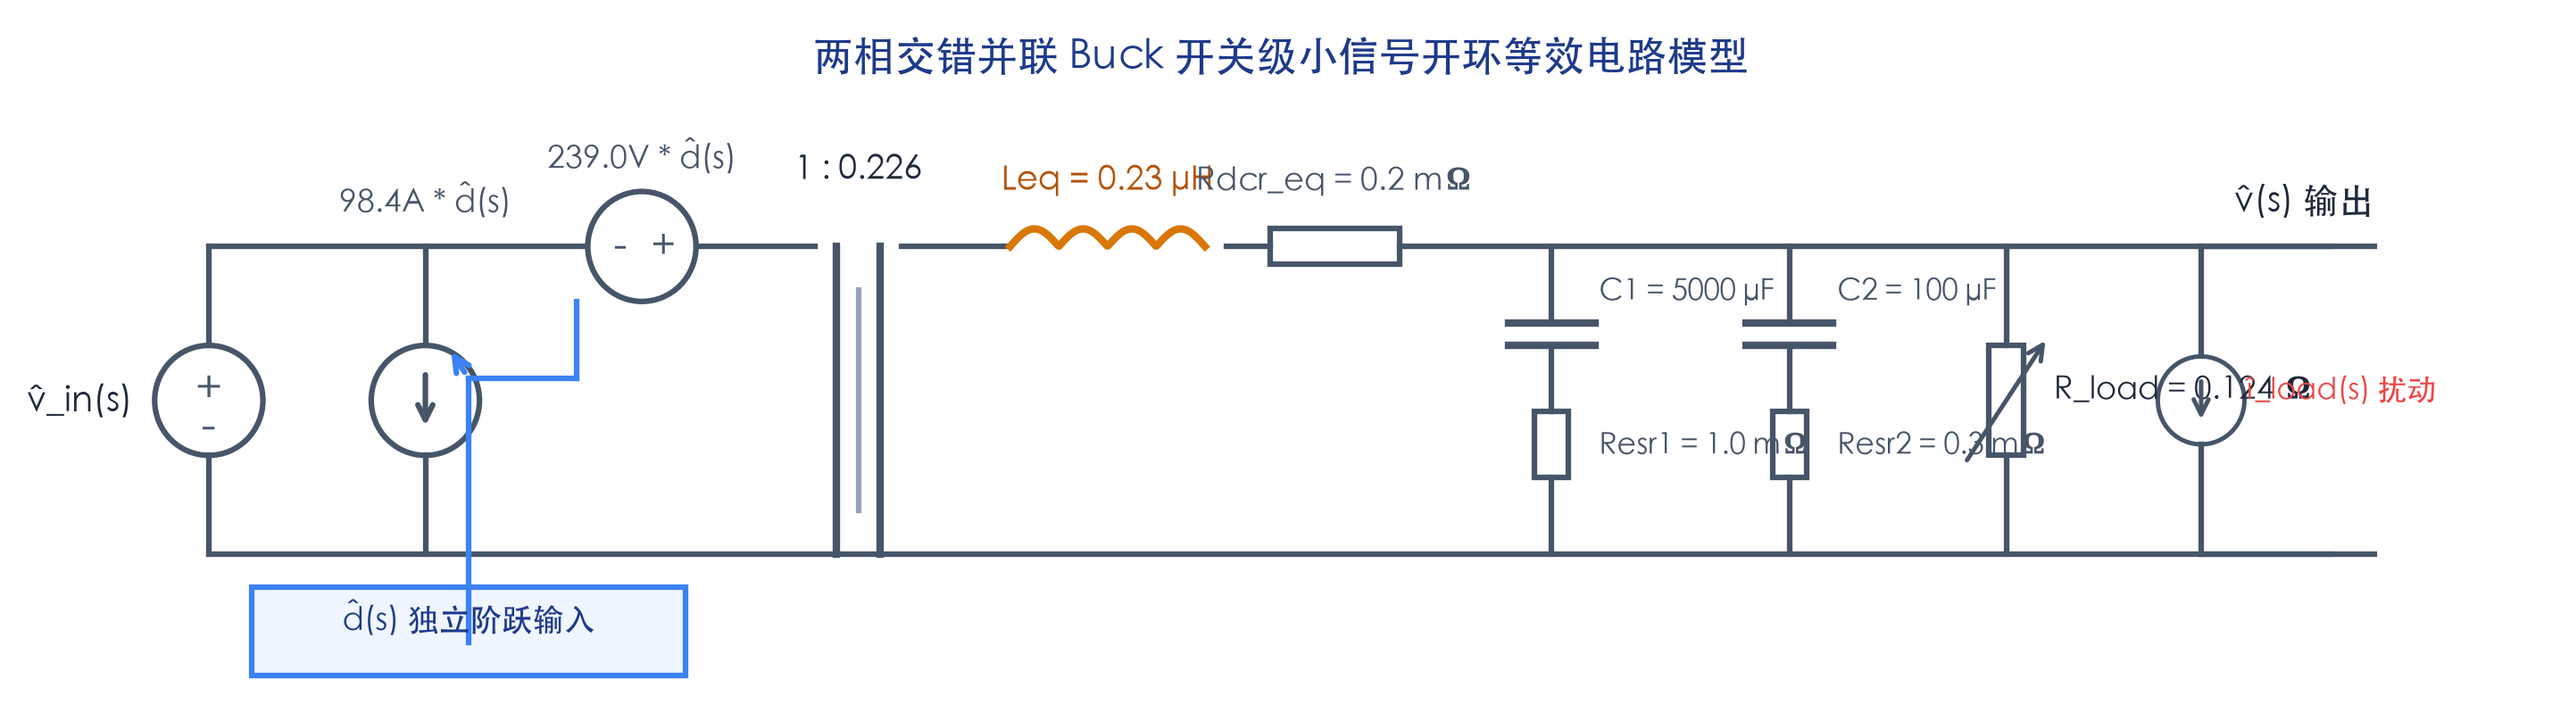
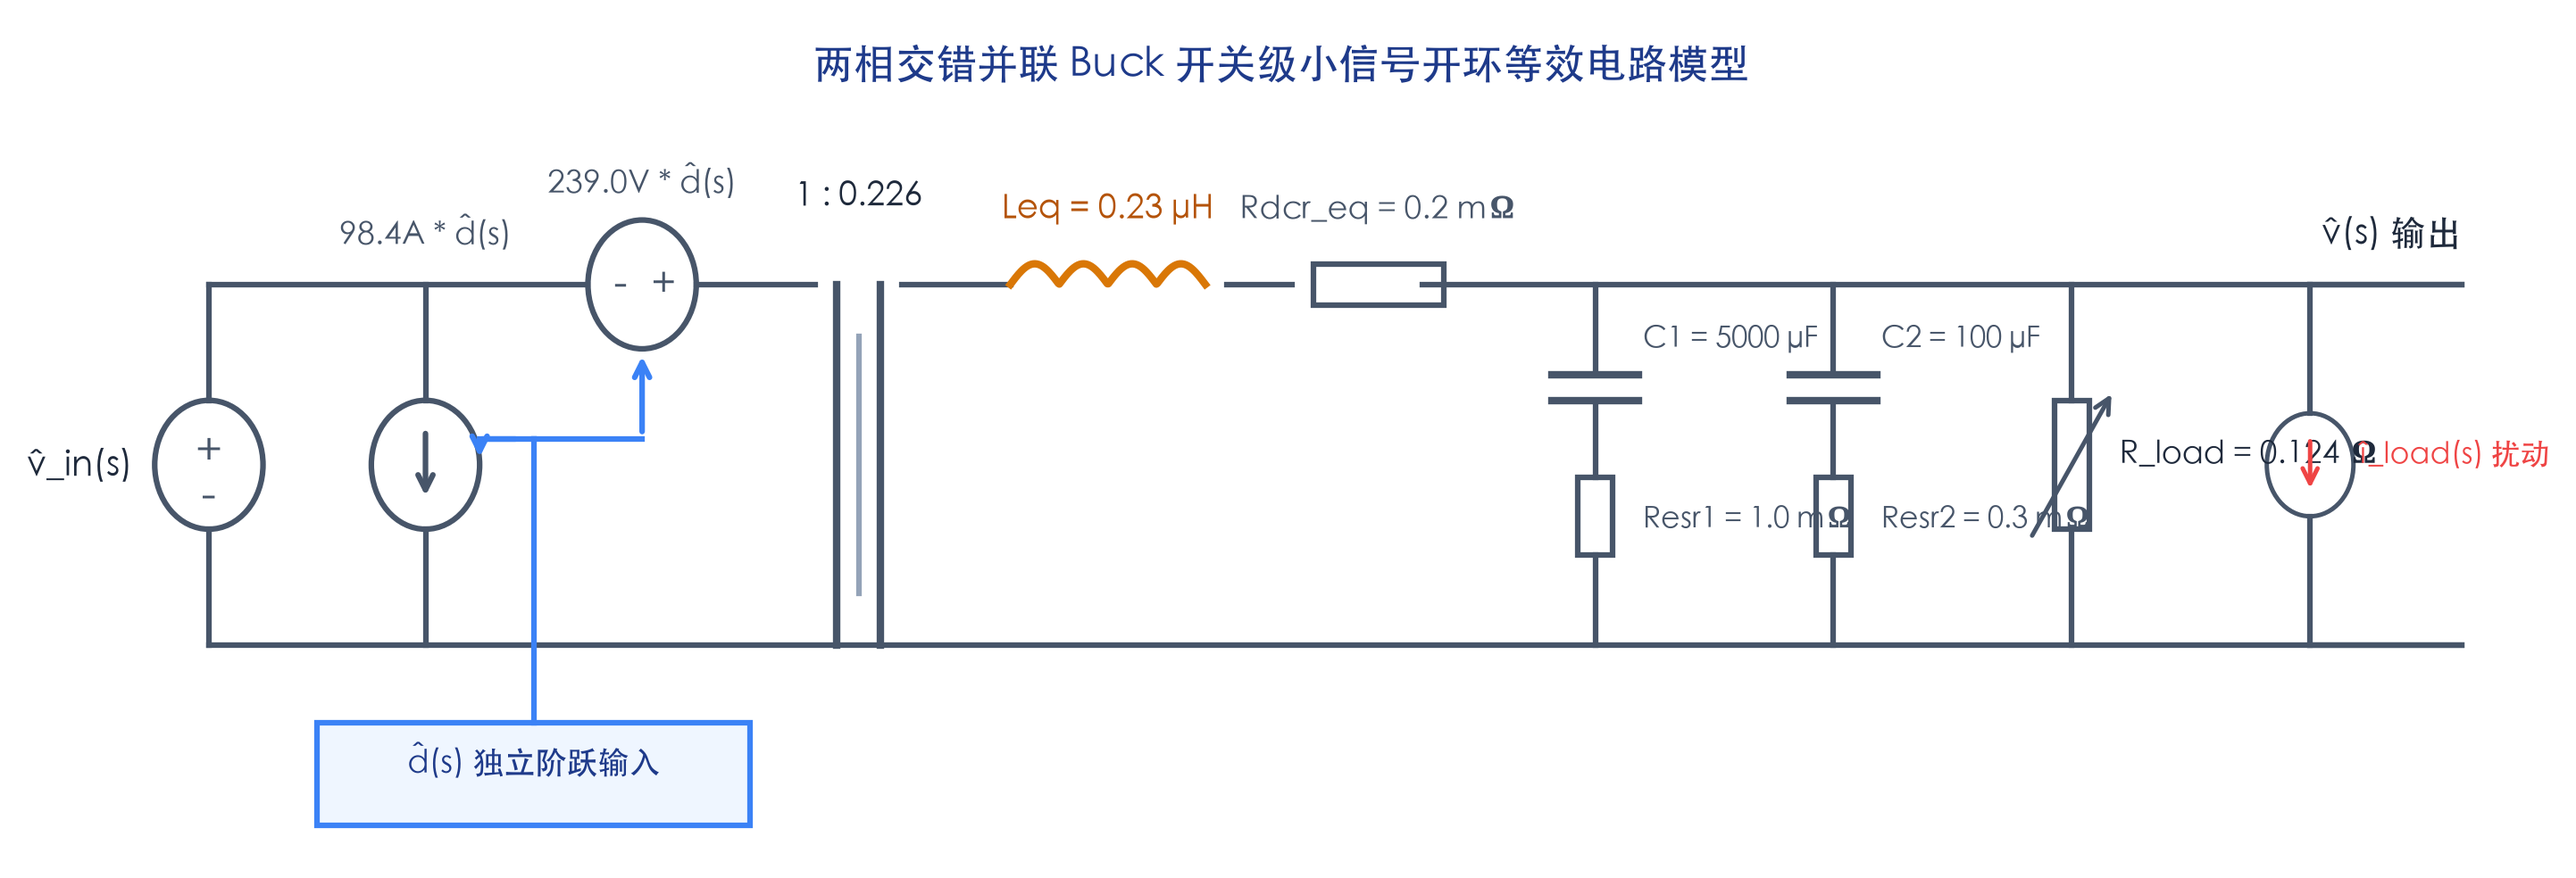
Widen open-loop schematic layout to resolve label overlaps and update st.image parameter in app.py

Changed region(s): [[0.0, 0.1802, 0.9962, 0.781], [0.3113, 0.03, 0.6849, 0.1202], [0.0934, 0.811, 0.3113, 0.9612]]

diff --git a/DesignDoc/generate_open_loop_schematic.py b/DesignDoc/generate_open_loop_schematic.py
@@ -7,10 +7,10 @@ def draw_open_loop_schematic():
     plt.rcParams['font.sans-serif'] = ['STHeiti', 'PingFang SC', 'Heiti TC', 'Arial Unicode MS', 'sans-serif']
     plt.rcParams['axes.unicode_minus'] = False
     
-    # Canvas size matching the closed-loop one
-    fig, ax = plt.subplots(figsize=(12, 3.2))
+    # Canvas size matching the closed-loop one, using 12x4 for spacious layout
+    fig, ax = plt.subplots(figsize=(12, 4.0))
     ax.set_xlim(0, 11.5)
-    ax.set_ylim(1.2, 4.2)
+    ax.set_ylim(1.0, 4.2)
     ax.axis('off')
     
     # Title
@@ -23,13 +23,13 @@ def draw_open_loop_schematic():
     y_bot = 1.8
     
     # Bottom rail (Ground)
-    plt.plot([0.8, 10.6], [y_bot, y_bot], color='#475569', lw=1.5)
+    plt.plot([0.8, 11.2], [y_bot, y_bot], color='#475569', lw=1.5)
     # Top rail sections
     plt.plot([0.8, 2.55], [y_top, y_top], color='#475569', lw=1.5)
     plt.plot([3.05, 3.6], [y_top, y_top], color='#475569', lw=1.5)
     plt.plot([4.0, 4.5], [y_top, y_top], color='#475569', lw=1.5)
-    plt.plot([5.5, 5.7], [y_top, y_top], color='#475569', lw=1.5)
-    plt.plot([6.3, 10.6], [y_top, y_top], color='#475569', lw=1.5)
+    plt.plot([5.5, 5.8], [y_top, y_top], color='#475569', lw=1.5)
+    plt.plot([6.4, 11.2], [y_top, y_top], color='#475569', lw=1.5)
     
     # ---------------------------------------------------------
     # 2. Components
@@ -82,16 +82,16 @@ def draw_open_loop_schematic():
     plt.plot(l_x, l_y, color='#D97706', lw=2)
     ax.text((lx_start+lx_end)/2, y_top + 0.25, 'Leq = 0.23 μH', fontsize=9, fontweight='bold', color='#B45309', ha='center')
     
-    # (f) Resistor Rdcr_eq = 0.2 mOhm
-    rx_start = 5.7
-    rx_end = 6.3
+    # (f) Resistor Rdcr_eq = 0.2 mOhm (Shifted right to 5.9-6.5 to give plenty of space)
+    rx_start = 5.9
+    rx_end = 6.5
     rect_r = patches.Rectangle((rx_start, y_top - 0.08), rx_end - rx_start, 0.16,
                                edgecolor='#475569', facecolor='#FFFFFF', lw=1.5)
     ax.add_patch(rect_r)
     ax.text((rx_start+rx_end)/2, y_top + 0.25, 'Rdcr_eq = 0.2 mΩ', fontsize=8.5, color='#475569', ha='center')
     
-    # (g) Capacitor C1 = 5000 uF
-    c1_x = 7.0
+    # (h) Capacitor C1 = 5000 uF (Shifted right to 7.2 to avoid any overlaps)
+    c1_x = 7.2
     plt.plot([c1_x, c1_x], [y_top, y_top - 0.35], color='#475569', lw=1.5)
     plt.plot([c1_x - 0.2, c1_x + 0.2], [y_top - 0.35, y_top - 0.35], color='#475569', lw=2)
     plt.plot([c1_x - 0.2, c1_x + 0.2], [y_top - 0.45, y_top - 0.45], color='#475569', lw=2)
@@ -104,8 +104,8 @@ def draw_open_loop_schematic():
     ax.text(c1_x + 0.22, y_top - 0.25, 'C1 = 5000 μF', fontsize=8, color='#475569')
     ax.text(c1_x + 0.22, y_bot + 0.45, 'Resr1 = 1.0 mΩ', fontsize=8, color='#475569')
     
-    # (h) Capacitor C2 = 100 uF
-    c2_x = 8.1
+    # (i) Capacitor C2 = 100 uF (Shifted right to 8.3)
+    c2_x = 8.3
     plt.plot([c2_x, c2_x], [y_top, y_top - 0.35], color='#475569', lw=1.5)
     plt.plot([c2_x - 0.2, c2_x + 0.2], [y_top - 0.35, y_top - 0.35], color='#475569', lw=2)
     plt.plot([c2_x - 0.2, c2_x + 0.2], [y_top - 0.45, y_top - 0.45], color='#475569', lw=2)
@@ -118,8 +118,8 @@ def draw_open_loop_schematic():
     ax.text(c2_x + 0.22, y_top - 0.25, 'C2 = 100 μF', fontsize=8, color='#475569')
     ax.text(c2_x + 0.22, y_bot + 0.45, 'Resr2 = 0.3 mΩ', fontsize=8, color='#475569')
     
-    # (i) Load Resistor R_load = 0.124
-    rl_x = 9.1
+    # (j) Load Resistor R_load = 0.124 (Shifted right to 9.4)
+    rl_x = 9.4
     rect_rl = patches.Rectangle((rl_x - 0.08, (y_top+y_bot)/2 - 0.25), 0.16, 0.5,
                                 edgecolor='#475569', facecolor='#FFFFFF', lw=1.5)
     ax.add_patch(rect_rl)
@@ -130,44 +130,52 @@ def draw_open_loop_schematic():
     plt.plot([rl_x, rl_x], [y_top, (y_top+y_bot)/2 + 0.25], color='#475569', lw=1.5)
     ax.text(rl_x + 0.22, (y_top+y_bot)/2, 'R_load = 0.124 Ω', fontsize=8.5, color='#1E293B')
     
-    # (j) Dependent Current Source i_load(s)
-    il_x = 10.0
+    # (k) Dependent Current Source i_load(s) (Shifted right to 10.5)
+    il_x = 10.5
     circle_il = patches.Circle((il_x, (y_top+y_bot)/2), 0.2, edgecolor='#475569', facecolor='#FFFFFF', lw=1.2)
     ax.add_patch(circle_il)
     ax.annotate('', xy=(il_x, (y_top+y_bot)/2 - 0.12), xytext=(il_x, (y_top+y_bot)/2 + 0.12),
-                arrowprops=dict(arrowstyle="->", color='#475569', lw=1.2))
+                arrowprops=dict(arrowstyle="->", color='#EF4444', lw=1.2))
     plt.plot([il_x, il_x], [y_bot, (y_top+y_bot)/2 - 0.2], color='#475569', lw=1.5)
     plt.plot([il_x, il_x], [y_top, (y_top+y_bot)/2 + 0.2], color='#475569', lw=1.5)
-    ax.text(il_x + 0.2, (y_top+y_bot)/2, 'î_load(s) 扰动', fontsize=8, color='#EF4444')
+    ax.text(il_x + 0.22, (y_top+y_bot)/2, 'î_load(s) 扰动', fontsize=8, color='#EF4444')
     
     # Output Voltage node
-    plt.plot([10.0, 10.8], [y_top, y_top], color='#475569', lw=1.5)
-    plt.plot([10.0, 10.8], [y_bot, y_bot], color='#475569', lw=1.5)
-    ax.text(10.8, y_top + 0.15, 'v̂(s) 输出', fontsize=9.5, fontweight='bold', color='#1E293B', ha='right')
+    plt.plot([10.5, 11.2], [y_top, y_top], color='#475569', lw=1.5)
+    plt.plot([10.5, 11.2], [y_bot, y_bot], color='#475569', lw=1.5)
+    ax.text(11.2, y_top + 0.15, 'v̂(s) 输出', fontsize=9.5, fontweight='bold', color='#1E293B', ha='right')
     
     # ---------------------------------------------------------
     # 3. Independent Open-Loop Input (NO FEEDBACK LOOP AT BOTTOM)
     # ---------------------------------------------------------
+    # Place control signal source in empty space at x=2.3 (exactly halfway between cs_x=1.8 and vs_x=2.8)
+    ol_src_x = 2.3
     y_ctrl_node = y_top - 0.6
     
-    # Draw independent step input block
-    plt.plot([2.0, 2.0], [1.4, y_ctrl_node], color='#3B82F6', lw=1.5)
-    # Arrow to control nodes
-    ax.annotate('', xy=(1.9, y_top - 0.45), xytext=(2.0, y_ctrl_node),
-                arrowprops=dict(arrowstyle="->", color='#3B82F6', lw=1.5))
-    plt.plot([2.0, 2.5], [y_ctrl_node, y_ctrl_node], color='#3B82F6', lw=1.5)
-    plt.plot([2.5, 2.5], [y_ctrl_node, y_top - 0.25], color='#3B82F6', lw=1.5)
+    # Control signal path up (does NOT cross any components)
+    plt.plot([ol_src_x, ol_src_x], [1.5, y_ctrl_node], color='#3B82F6', lw=1.5)
     
-    # Draw independent source box at x=2.0, y=1.4
-    rect_src = patches.Rectangle((1.0, 1.25), 2.0, 0.4,
+    # Branching lines:
+    # 1) Branch left to dependent current source at cs_x = 1.8
+    plt.plot([ol_src_x, cs_x + 0.25], [y_ctrl_node, y_ctrl_node], color='#3B82F6', lw=1.5)
+    ax.annotate('', xy=(cs_x + 0.25, (y_top+y_bot)/2), xytext=(cs_x + 0.45, y_ctrl_node),
+                arrowprops=dict(arrowstyle="->", color='#3B82F6', lw=1.5, connectionstyle="angle,angleA=180,angleB=90,rad=3"))
+    
+    # 2) Branch right to dependent voltage source at vs_x = 2.8
+    plt.plot([ol_src_x, vs_x], [y_ctrl_node, y_ctrl_node], color='#3B82F6', lw=1.5)
+    ax.annotate('', xy=(vs_x, y_top - 0.25), xytext=(vs_x, y_ctrl_node),
+                arrowprops=dict(arrowstyle="->", color='#3B82F6', lw=1.5))
+    
+    # Draw independent source box at x = ol_src_x, y = 1.15
+    rect_src = patches.Rectangle((ol_src_x - 1.0, 1.1), 2.0, 0.4,
                                  edgecolor='#3B82F6', facecolor='#EFF6FF', lw=1.5)
     ax.add_patch(rect_src)
-    ax.text(2.0, 1.45, 'd̂(s) 独立阶跃输入', fontsize=8.5, fontweight='bold', color='#1E3A8A', ha='center')
+    ax.text(ol_src_x, 1.3, 'd̂(s) 独立阶跃输入', fontsize=8.5, fontweight='bold', color='#1E3A8A', ha='center')
     
     plt.savefig("/Users/walter/Downloads/WPSSync/Work/3.Engineering/Ctrl/2PhBuck/DesignDoc/open_loop_schematic.png",
                 dpi=300, bbox_inches='tight')
     plt.close()
-    print("Open-loop schematic successfully drawn and saved.")
+    print("Open-loop schematic successfully drawn and saved with clean layout.")
 
 if __name__ == '__main__':
     draw_open_loop_schematic()

diff --git a/app.py b/app.py
@@ -907,7 +907,7 @@ try:
         st.markdown("#### 📐 开环等效电路小信号拓扑结构")
         st.write("在开环状态下，控制反馈环路断开，相当于给功率级等效电路输入一个阶跃的占空比控制源。其电路等效模型与信号流走向如下图所示：")
         if os.path.exists("DesignDoc/open_loop_schematic.png"):
-            st.image("DesignDoc/open_loop_schematic.png", caption="两相交错并联 Buck 功率级等效小信号电路模型 (无反馈控制环路)", use_column_width=True)
+            st.image("DesignDoc/open_loop_schematic.png", caption="两相交错并联 Buck 功率级等效小信号电路模型 (无反馈控制环路)", use_container_width=True)
         
     # 5. 数字补偿与设计参考指南
     st.markdown('<div id="section-5"></div>', unsafe_allow_html=True)
